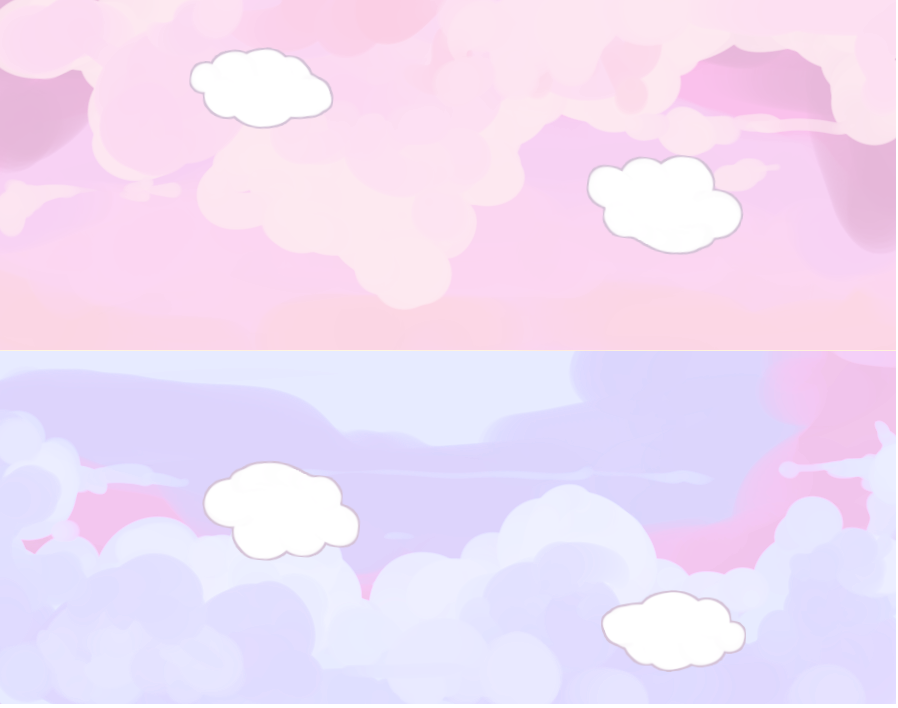
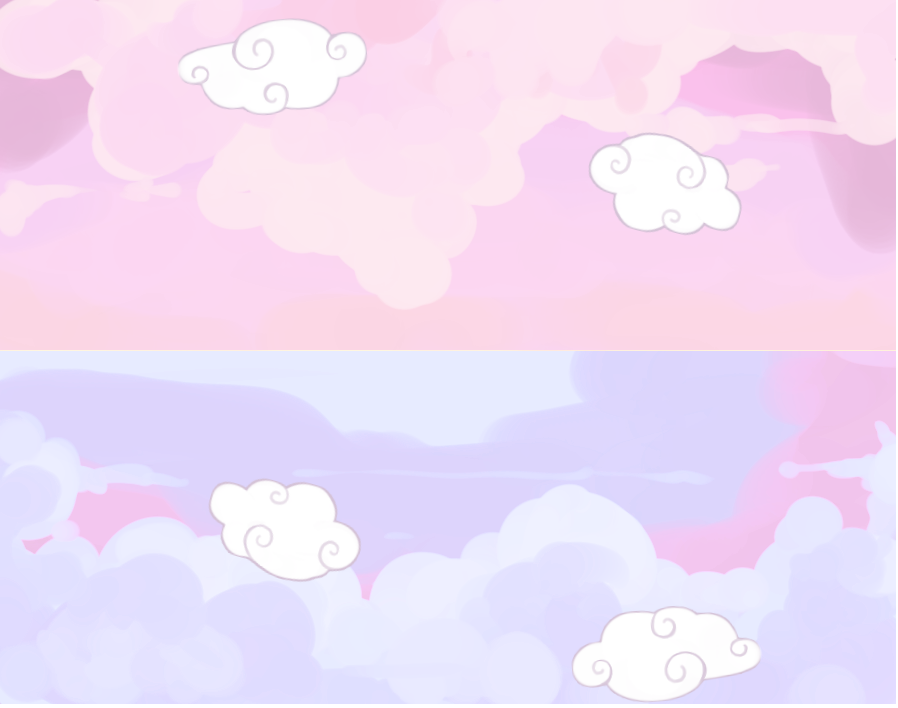
made new clouds level images

diff --git a/js/States/Load.js b/js/States/Load.js
@@ -65,7 +65,7 @@ Load.prototype = {
         game.load.image('Threads', 'img/bg/new_Threads.png');
 		game.load.image('Houses', 'img/bg/new_Houses.png');
 		game.load.image('Windows', 'img/bg/new_Windows.png');
-		game.load.image('Fences', 'img/bg/new_Fences.png');
+		game.load.image('Fences', 'img/bg/newer_Fences.png');
 		game.load.image('Clouds1', 'img/bg/newer_cloud_puzzle2.png');
 		game.load.image('Clouds2', 'img/bg/newer_cloud_puzzle3.png');
 		game.load.image('Clouds3', 'img/bg/newer_cloud_puzzle4.png');
@@ -106,6 +106,6 @@ Load.prototype = {
 	},
 	create: function() {
 		// go to Title state
-		game.state.start('Theme'); // Theme
+		game.state.start('Clouds'); // Theme
 	}
 };

diff --git a/js/Prefabs/Player.js b/js/Prefabs/Player.js
@@ -229,7 +229,7 @@ Player.prototype.update = function(){
 	    // Check for jumping
 	    if(game.input.keyboard.justPressed(Phaser.KeyCode[this.controls[2]]) && this.checkIfCanJump() ){
 	    	if(this.whichPlayer == 1 || this.whichPlayer == 2) {
-	    		if(this.meow1 !== 'undefined') {
+	    		if(typeof this.meow1 !== 'undefined') {
 	    			this.meow1.play('', 0, 1, false);
 	    		}
 	    		/*}
